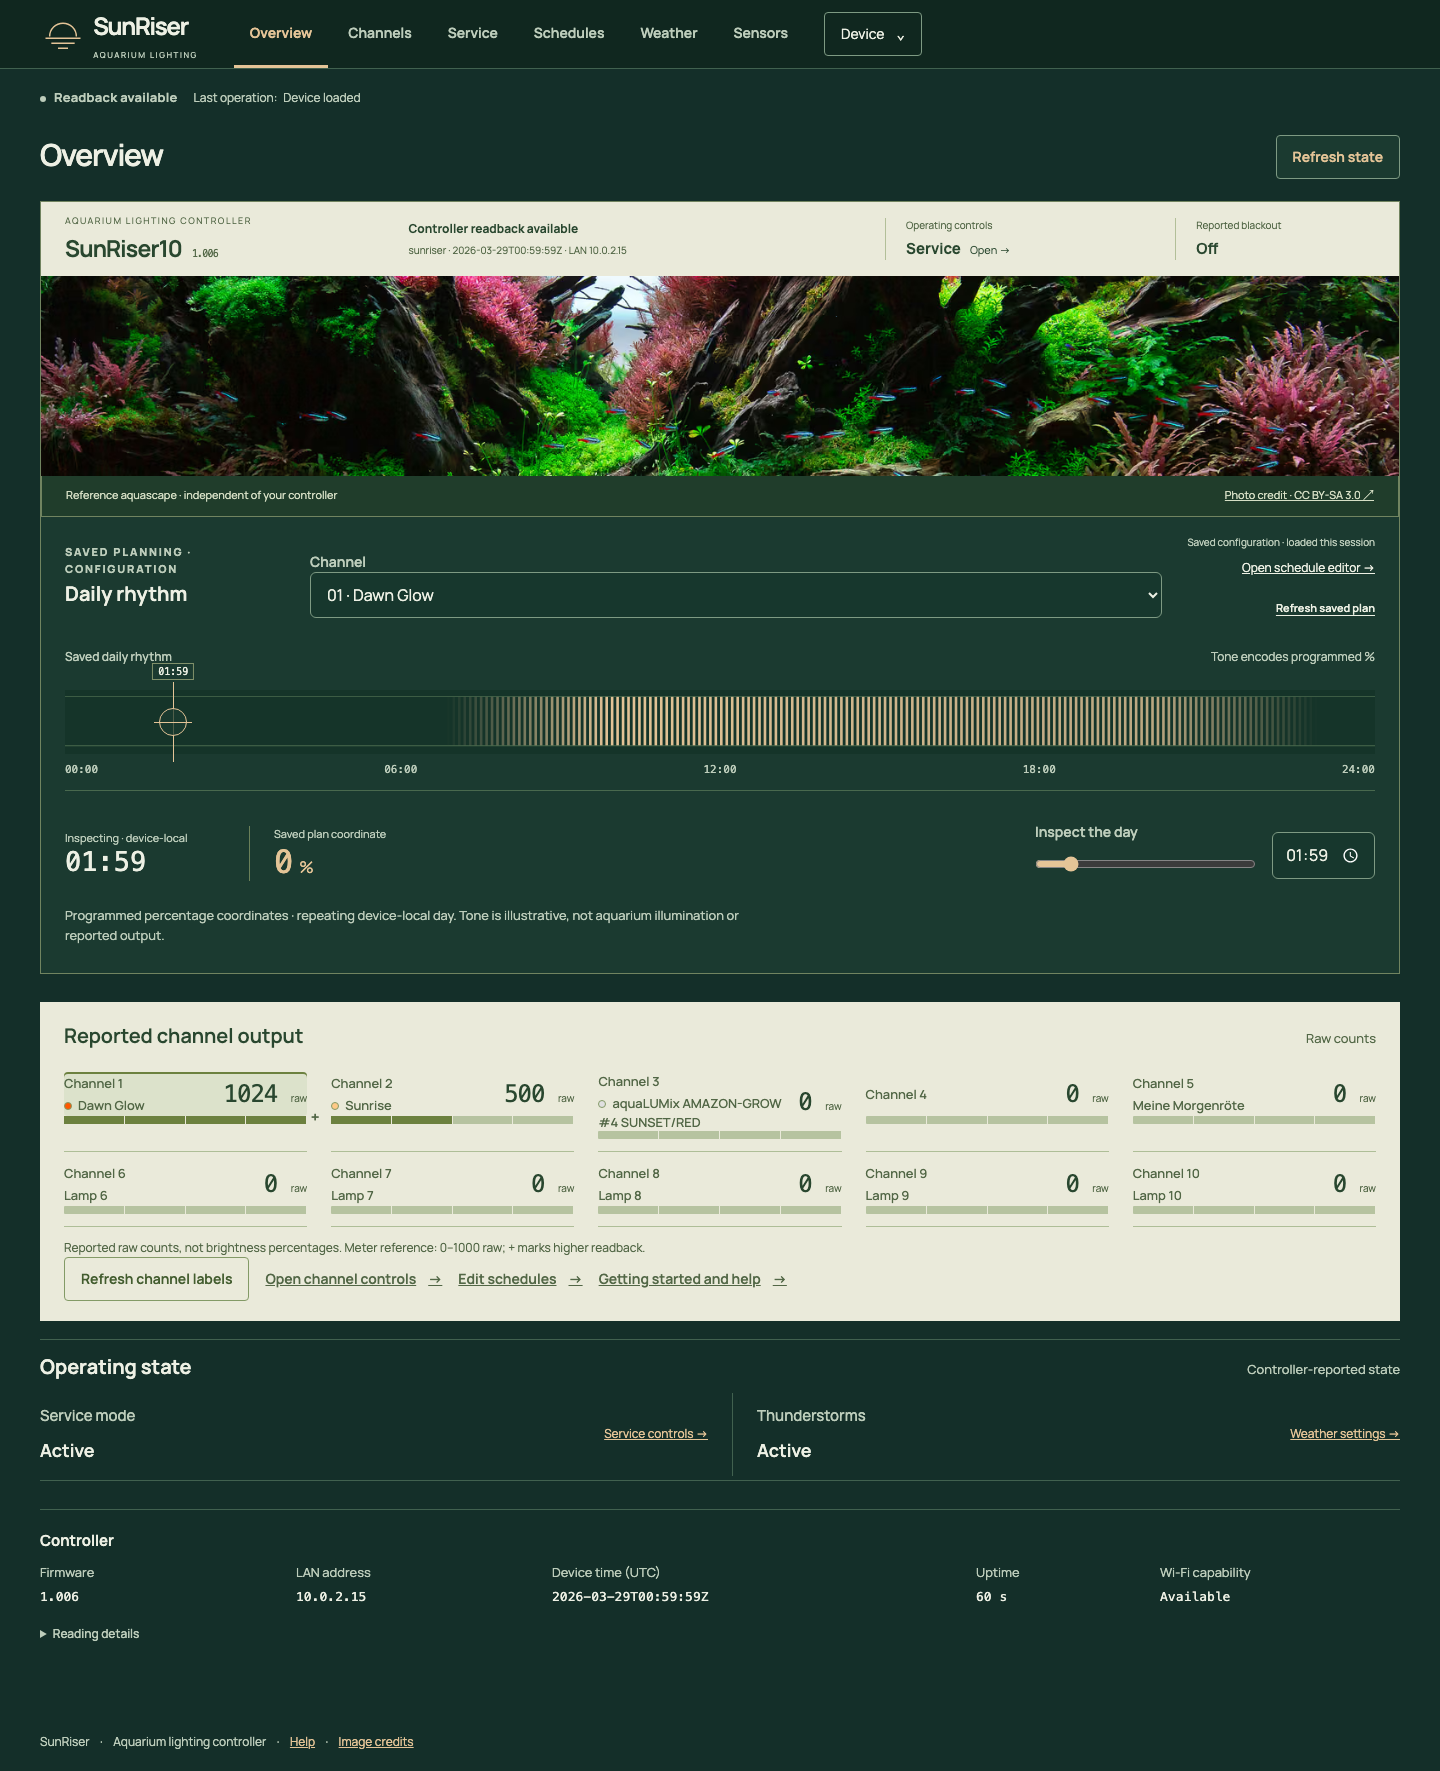
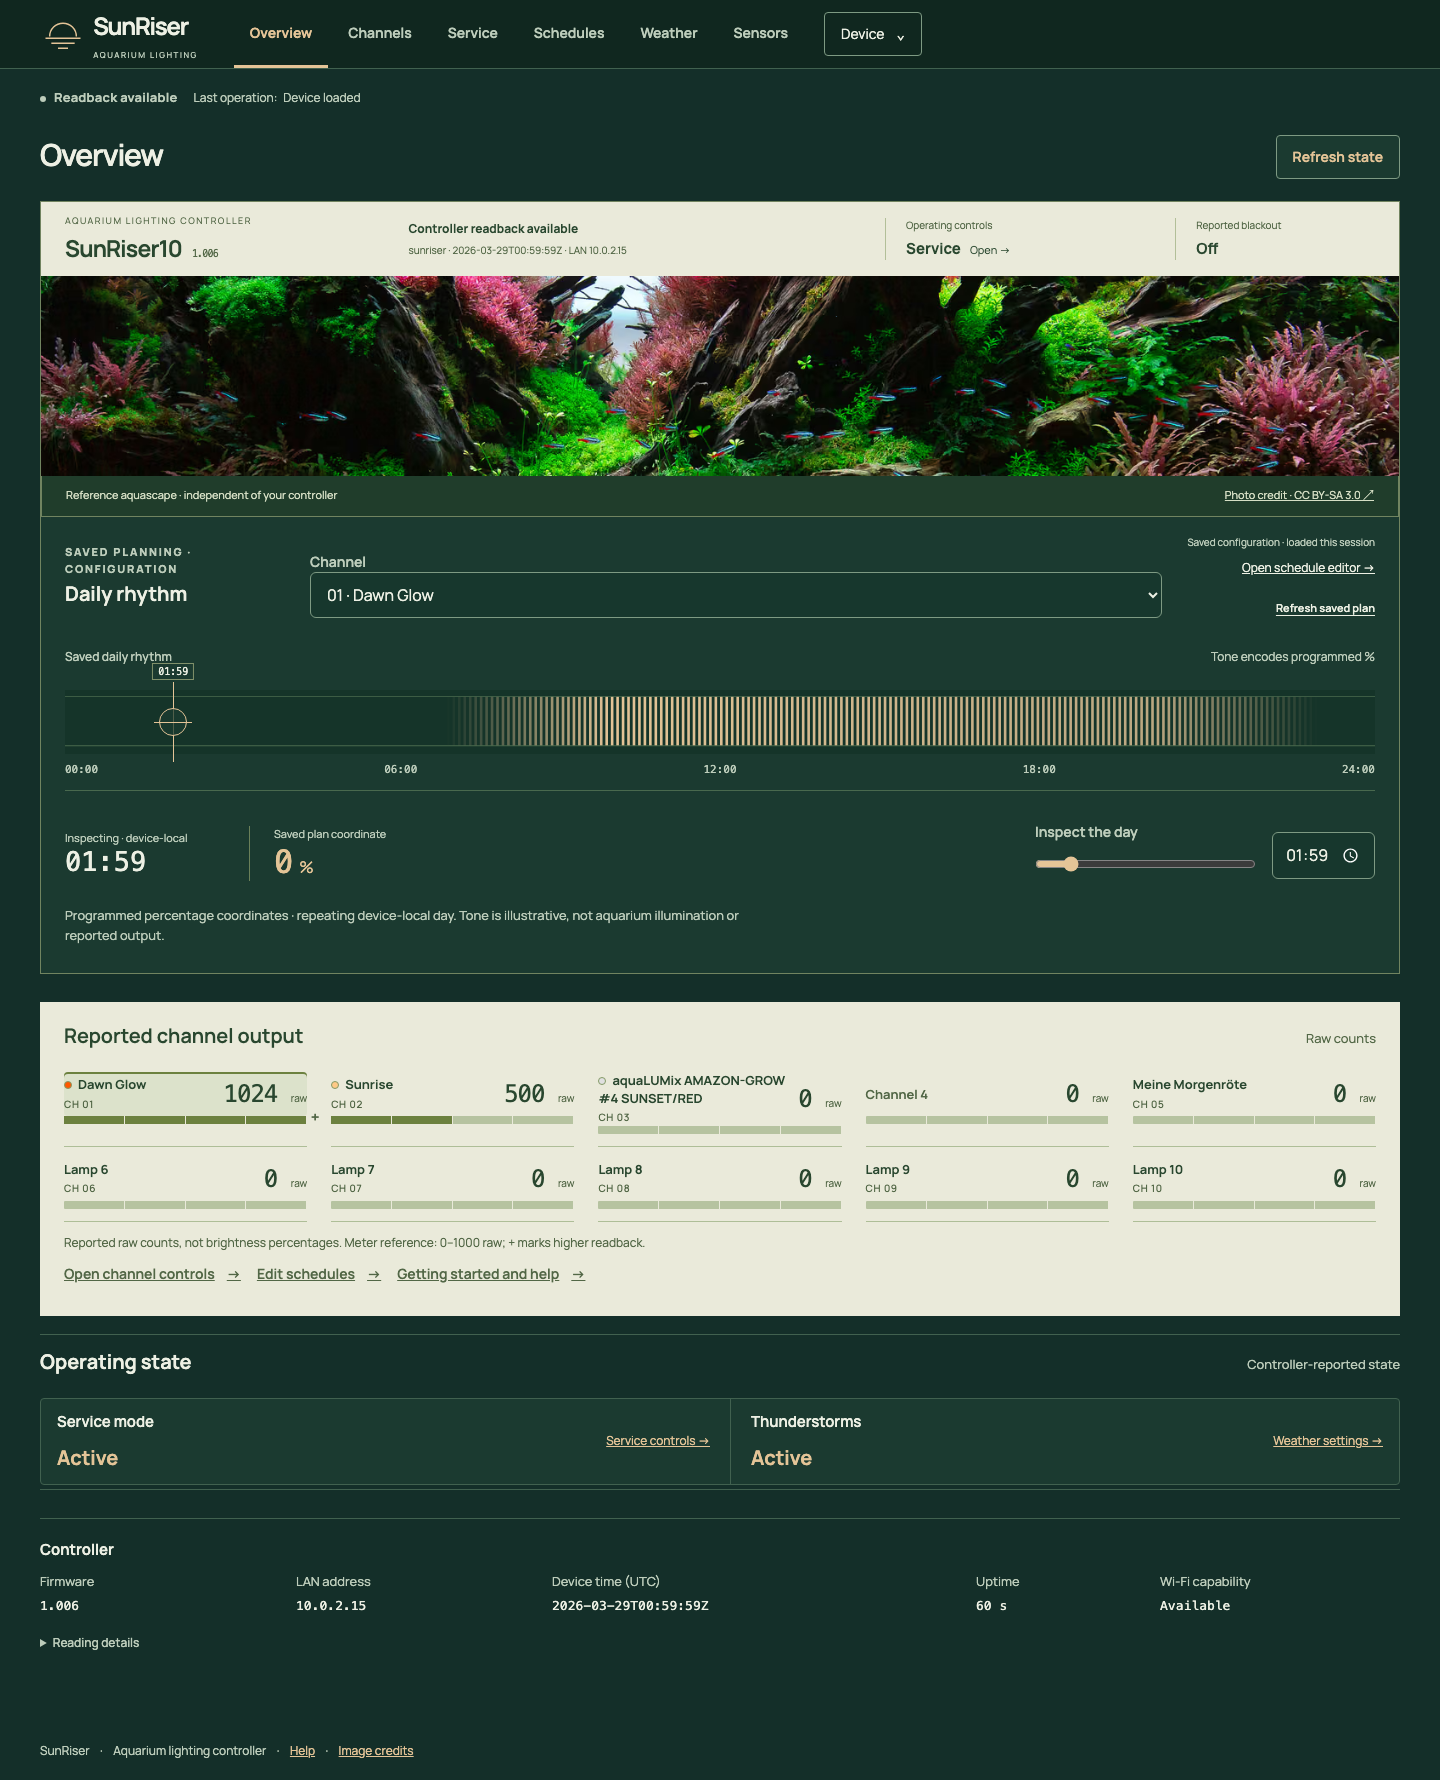
docs: record Overview polish validation and refresh screenshots

diff --git a/README.md b/README.md
@@ -4,6 +4,8 @@ The Living Aquascape Svelte frontend for SunRiser 8 and 10, extracted into a
 standalone project. It communicates with the controller's existing HTTP API.
 All fonts, images and notices are local.
 
+Current Overview polish and configuration-synchronisation notes: [validation report](docs/OVERVIEW_SYNC.md).
+
 ## Screenshots
 
 Desktop and mobile views of Living Aquascape using demonstration data. Select an
